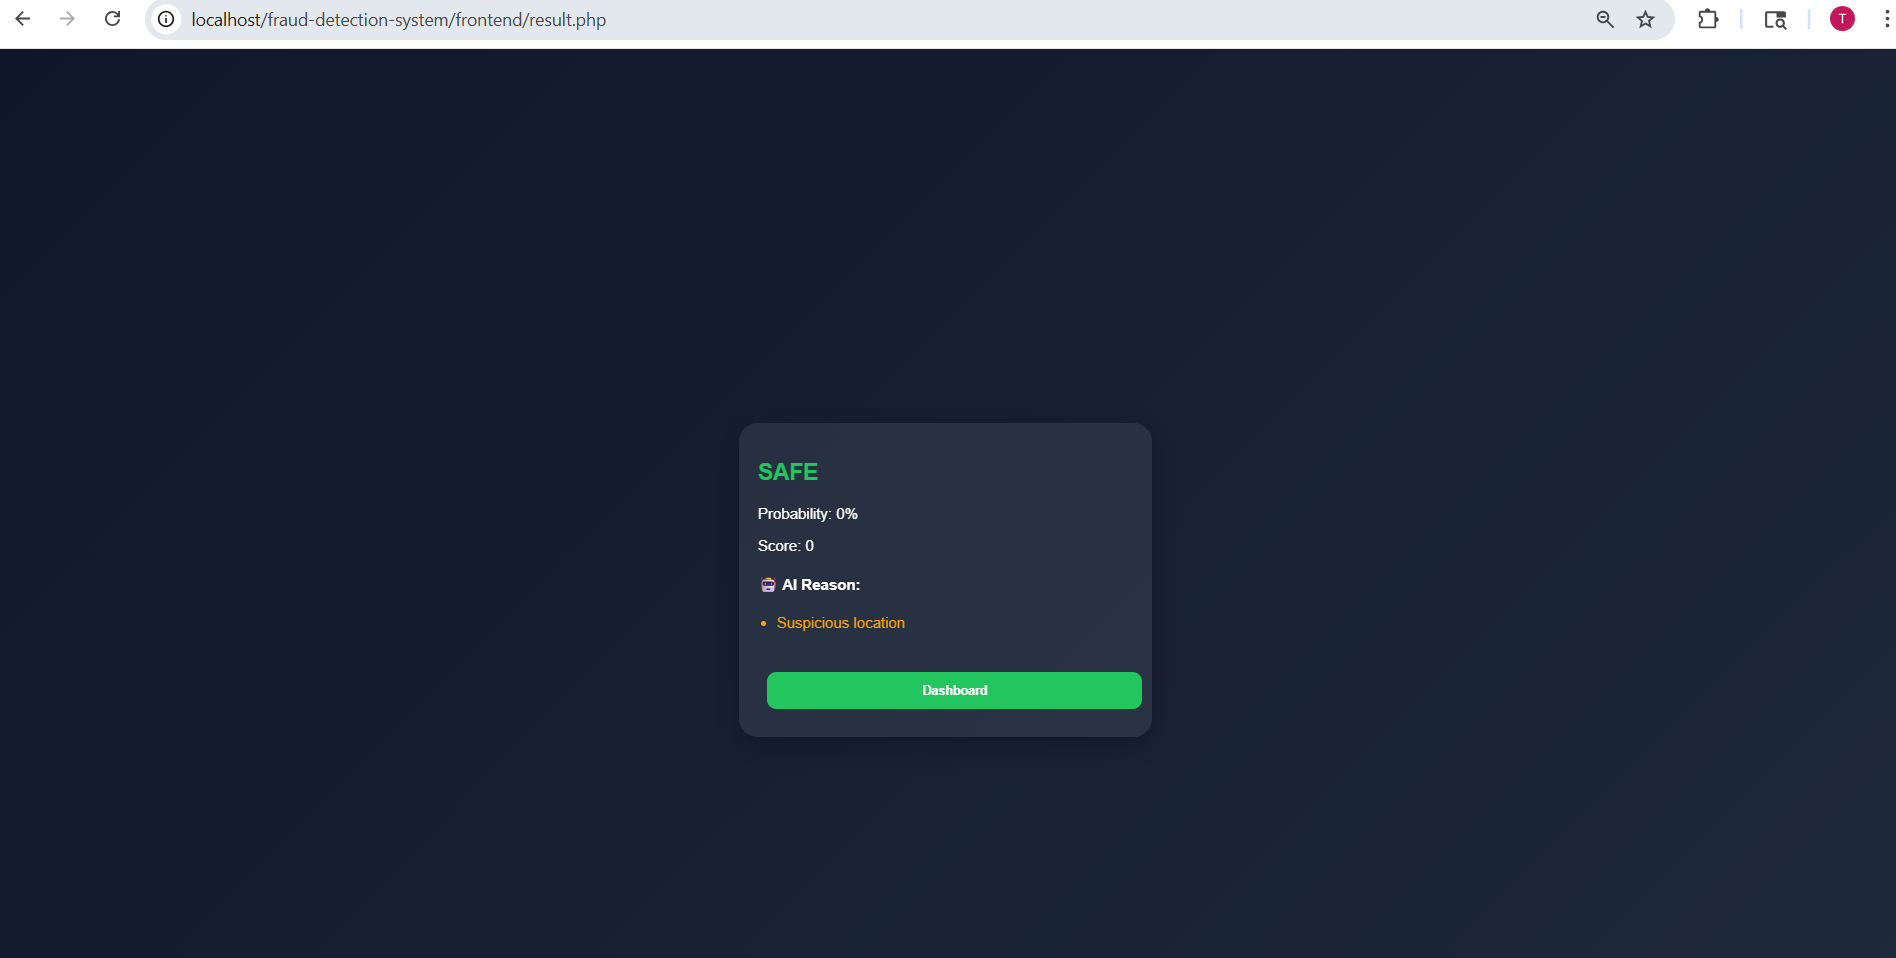
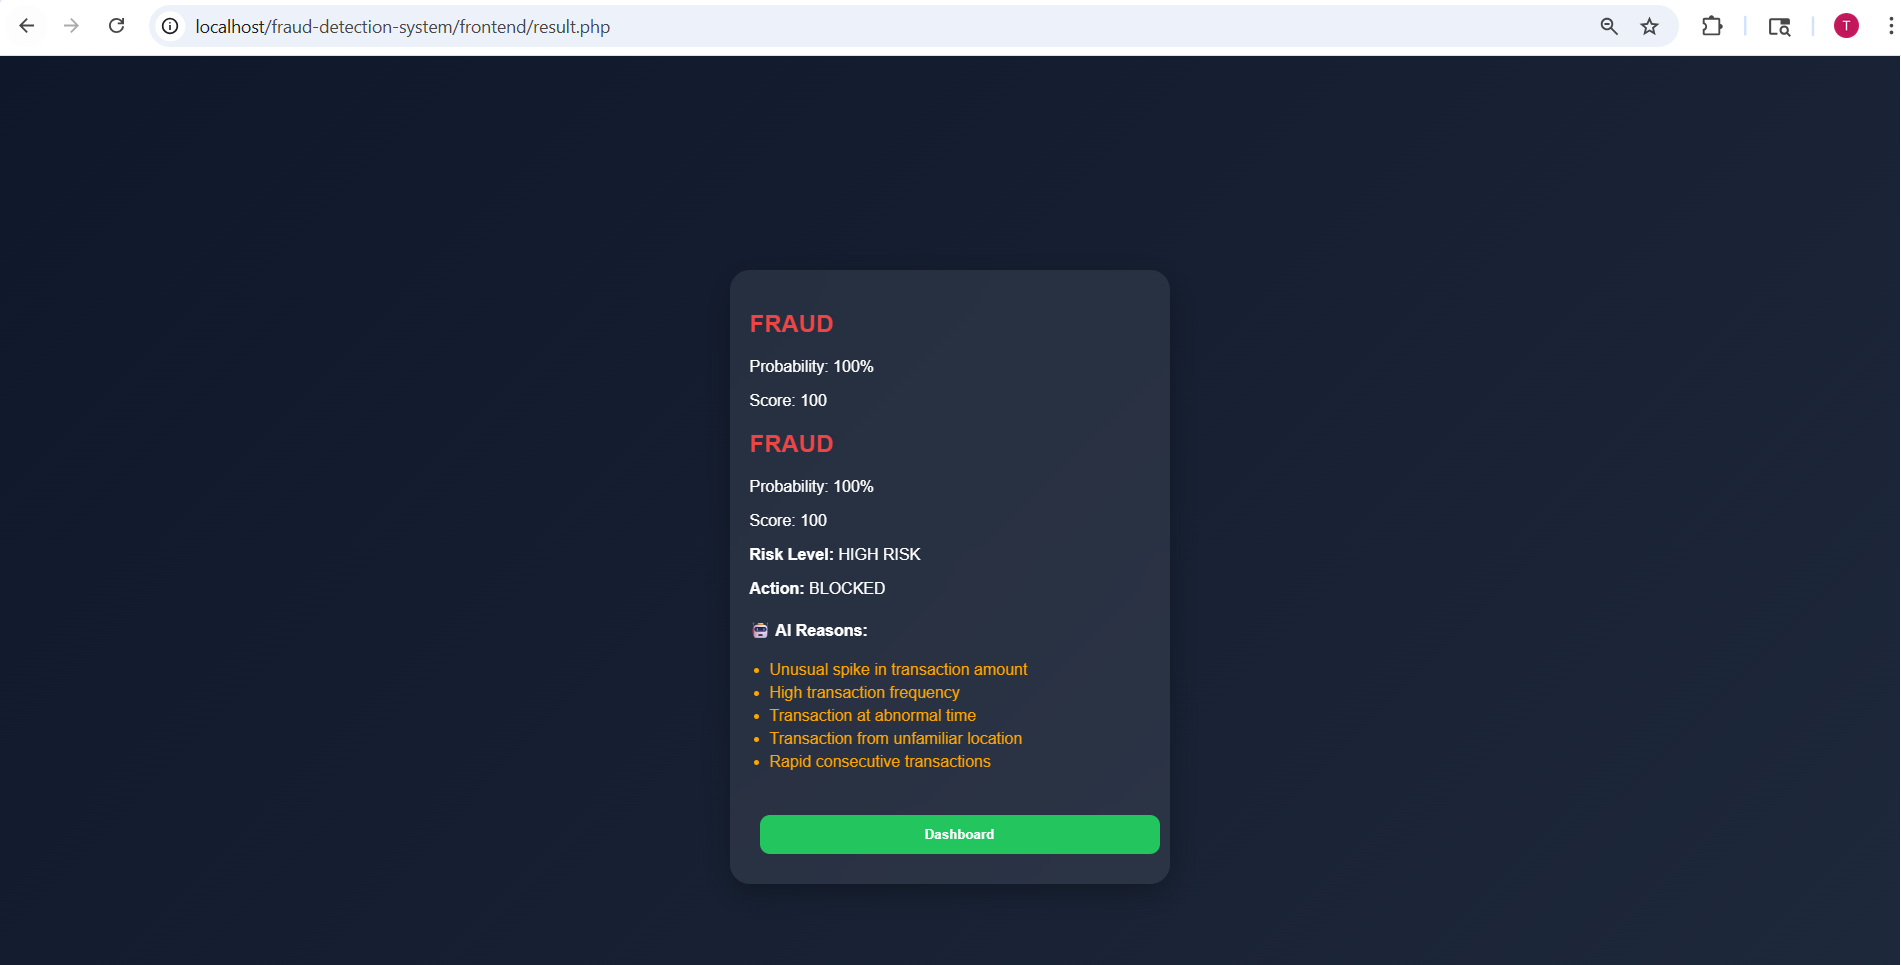
Added fraud alert system , improved UI and README screenshots

Changed region(s): [[0.0, 0.0, 1.0, 1.0], [0.3734, 0.4541, 0.6224, 0.9081], [0.4045, 0.3027, 0.4668, 0.4238]]

diff --git a/backend/app.py b/backend/app.py
@@ -18,7 +18,9 @@ try:
 
     model = pickle.load(open(model_path, "rb"))
     scaler = pickle.load(open(scaler_path, "rb"))
-    print("✅ Model Loaded")
+
+    print("✅ Model Loaded Successfully")
+
 except Exception as e:
     print("❌ Model Load Error:", e)
     model = None
@@ -44,46 +46,45 @@ except Exception as e:
 # 🧠 PREDICT ROUTE
 # ==============================
 
-
 @app.route("/predict", methods=["POST"])
 def predict():
     try:
         data = request.get_json()
 
-        # BASIC INPUT
+        # INPUTS
         amount = float(data.get("amount", 0))
         hour = float(data.get("hour", 0))
         location = float(data.get("location", 0))
-
-        # NEW FEATURES
         previous_amount = float(data.get("previous_amount", amount))
         transaction_count = float(data.get("transaction_count", 1))
         time_gap = float(data.get("time_gap", 1))
 
         # ==============================
-        # FEATURE VECTOR (30 features)
+        # 🔥 RULE-BASED FRAUD LOGIC
         # ==============================
-        features = np.zeros(30)
+        score = 0
 
-        features[0] = amount
-        features[1] = hour
-        features[2] = location
-        features[3] = previous_amount
-        features[4] = transaction_count
-        features[5] = time_gap
+        if amount > previous_amount * 2:
+            score += 30
 
-        # SCALE
-        features_scaled = scaler.transform([features]) if scaler else [features]
+        if transaction_count > 5:
+            score += 20
 
-        # MODEL
-        if model:
-            prediction = model.predict(features_scaled)[0]
-            probability = model.predict_proba(features_scaled)[0][1]
-        else:
-            probability = 0.7 if amount > 5000 else 0.2
-            prediction = 1 if probability > 0.5 else 0
+        if hour < 6 or hour > 22:
+            score += 15
 
-        score = int(probability * 100)
+        if location == 1:
+            score += 20
+
+        if time_gap < 2:
+            score += 15
+
+        if score > 100:
+            score = 100
+
+        probability = score / 100
+        prediction = 1 if score > 50 else 0
+
         status = "FRAUD" if prediction == 1 else "SAFE"
 
         # ==============================
@@ -97,7 +98,7 @@ def predict():
             risk = "LOW RISK"
 
         # ==============================
-        # 🤖 EXPLAINABLE AI
+        # 🤖 AI REASONS
         # ==============================
         reasons = []
 
@@ -120,7 +121,7 @@ def predict():
             reasons.append("Normal transaction behavior")
 
         # ==============================
-        # 🚨 AUTO ACTION
+        # 🚨 ACTION
         # ==============================
         if score > 80:
             action = "BLOCKED"
@@ -149,7 +150,7 @@ def predict():
 
         return jsonify({
             "status": status,
-            "probability": score,
+            "probability": int(probability * 100),
             "score": score,
             "risk": risk,
             "action": action,

diff --git a/Readme.md b/Readme.md
@@ -77,10 +77,13 @@ A modern **glassmorphism UI dashboard** with:
 ## 📸 Screenshots
 
 ### 🏠 Home Page
-![Home](Screenshots/home.png)
+![Home](Screenshots/index.png)
 
 ### 🤖 Result Page
 ![Result](Screenshots/result.png)
+
+### 🚨 Fraud Alert 
+![Alert](Screenshots/alert.png)
 
 ### 📊 Dashboard
 ![Dashboard](Screenshots/dashboard1.png)
